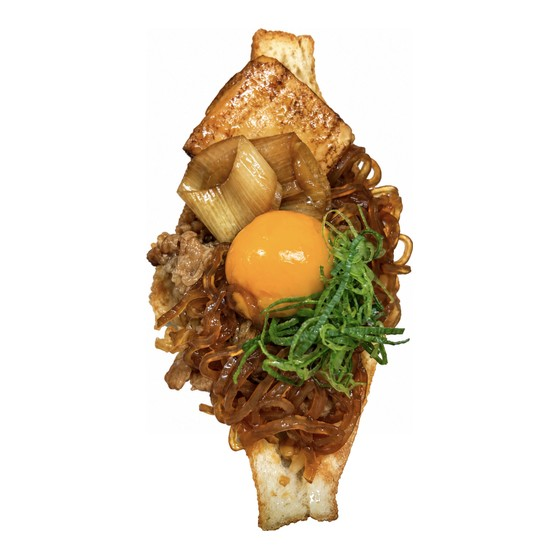
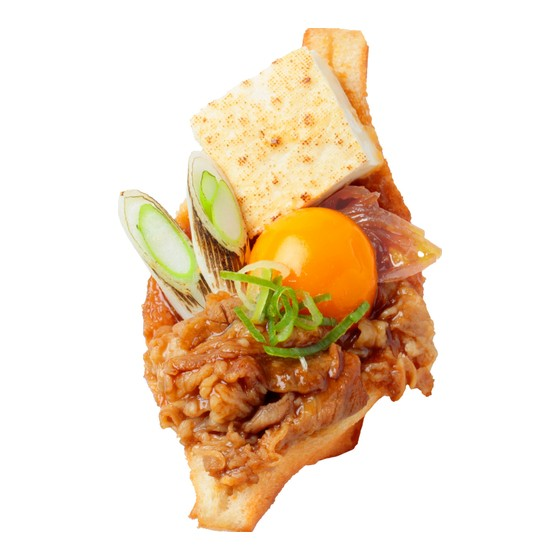
fix: すき焼き揚げサンドのヒーロー画像を差し替え
Claude-Session: https://claude.ai/code/session_01Wp3vB6FRfwS6WS9ETNgW7z

diff --git a/age3-recipe-data.js b/age3-recipe-data.js
@@ -30,7 +30,7 @@
    ========================================================================== */
 
 var RECIPE_META = {
-  assetVersion: '20261007a',
+  assetVersion: '20261008a',
   brand: 'Age.3',
   title: 'Age.3 レシピ',
   sub: '揚げサンド スタンダードレシピ',
